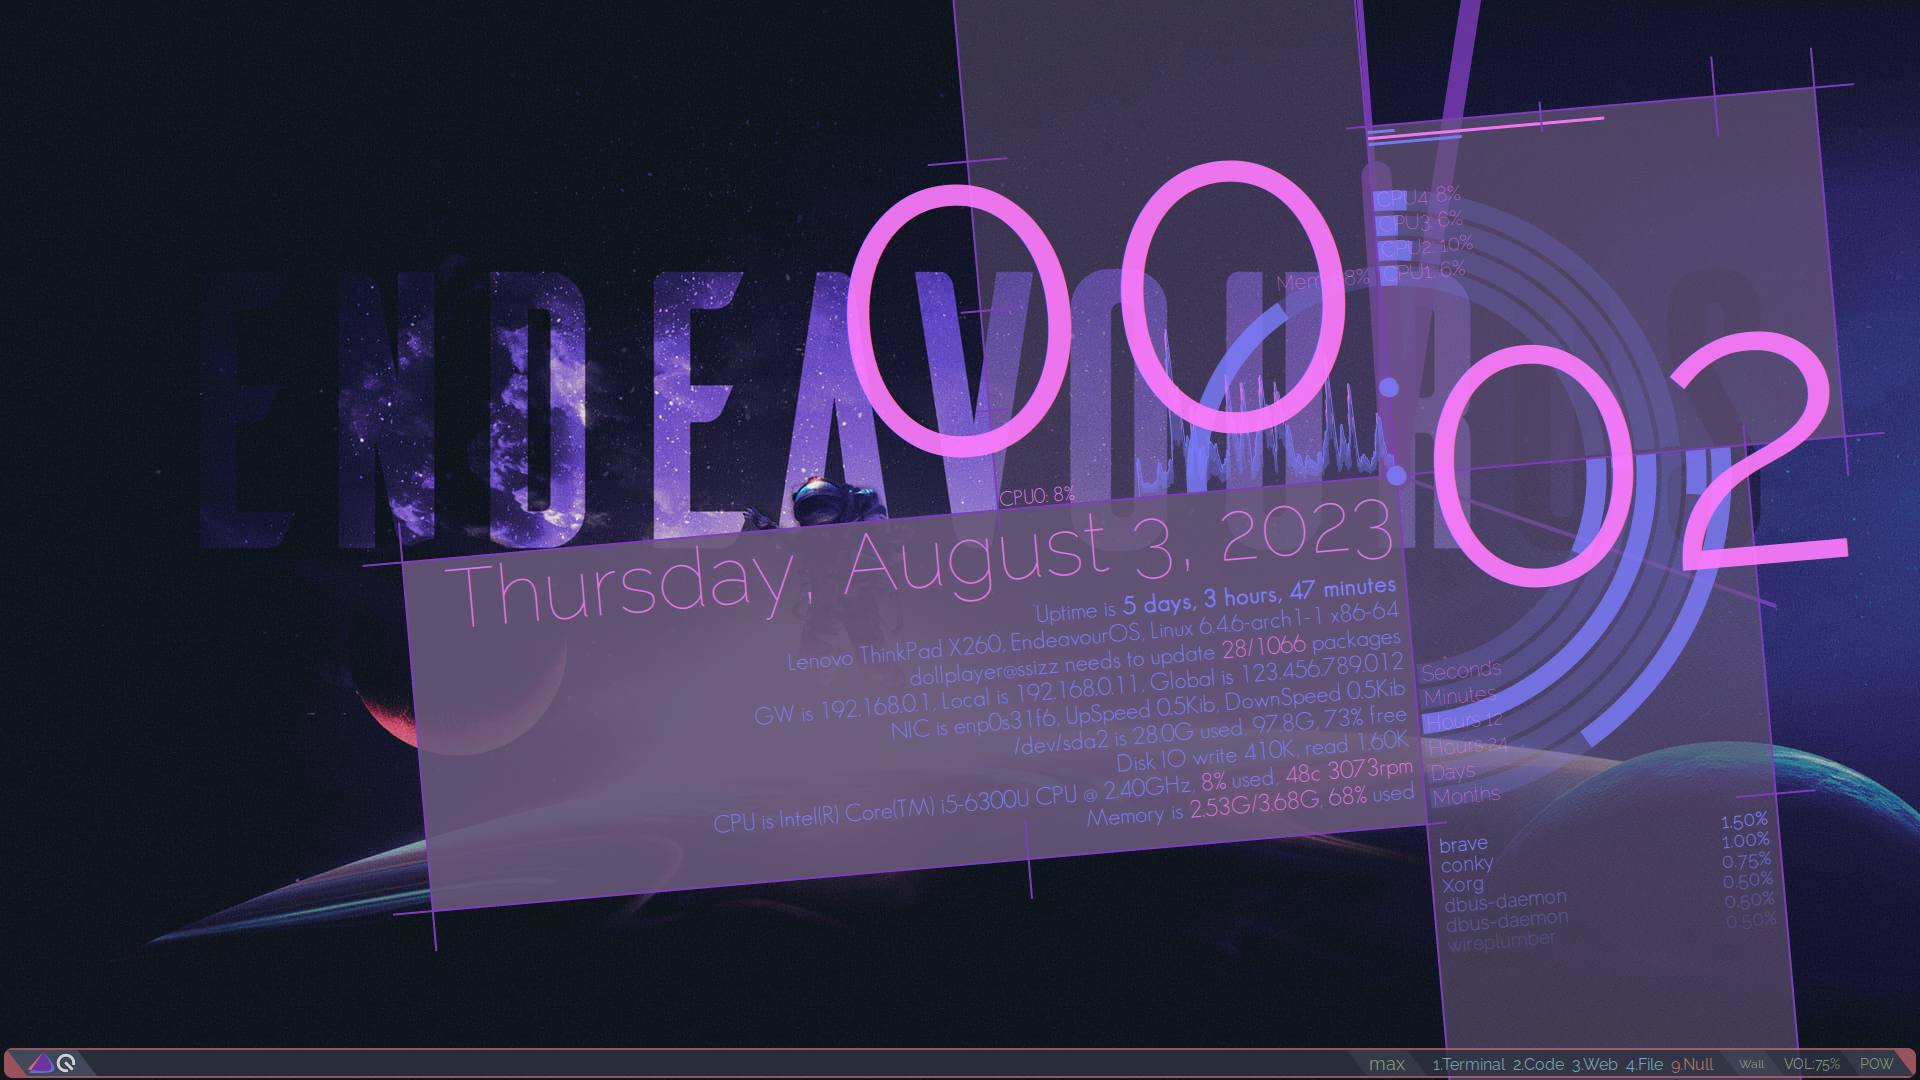
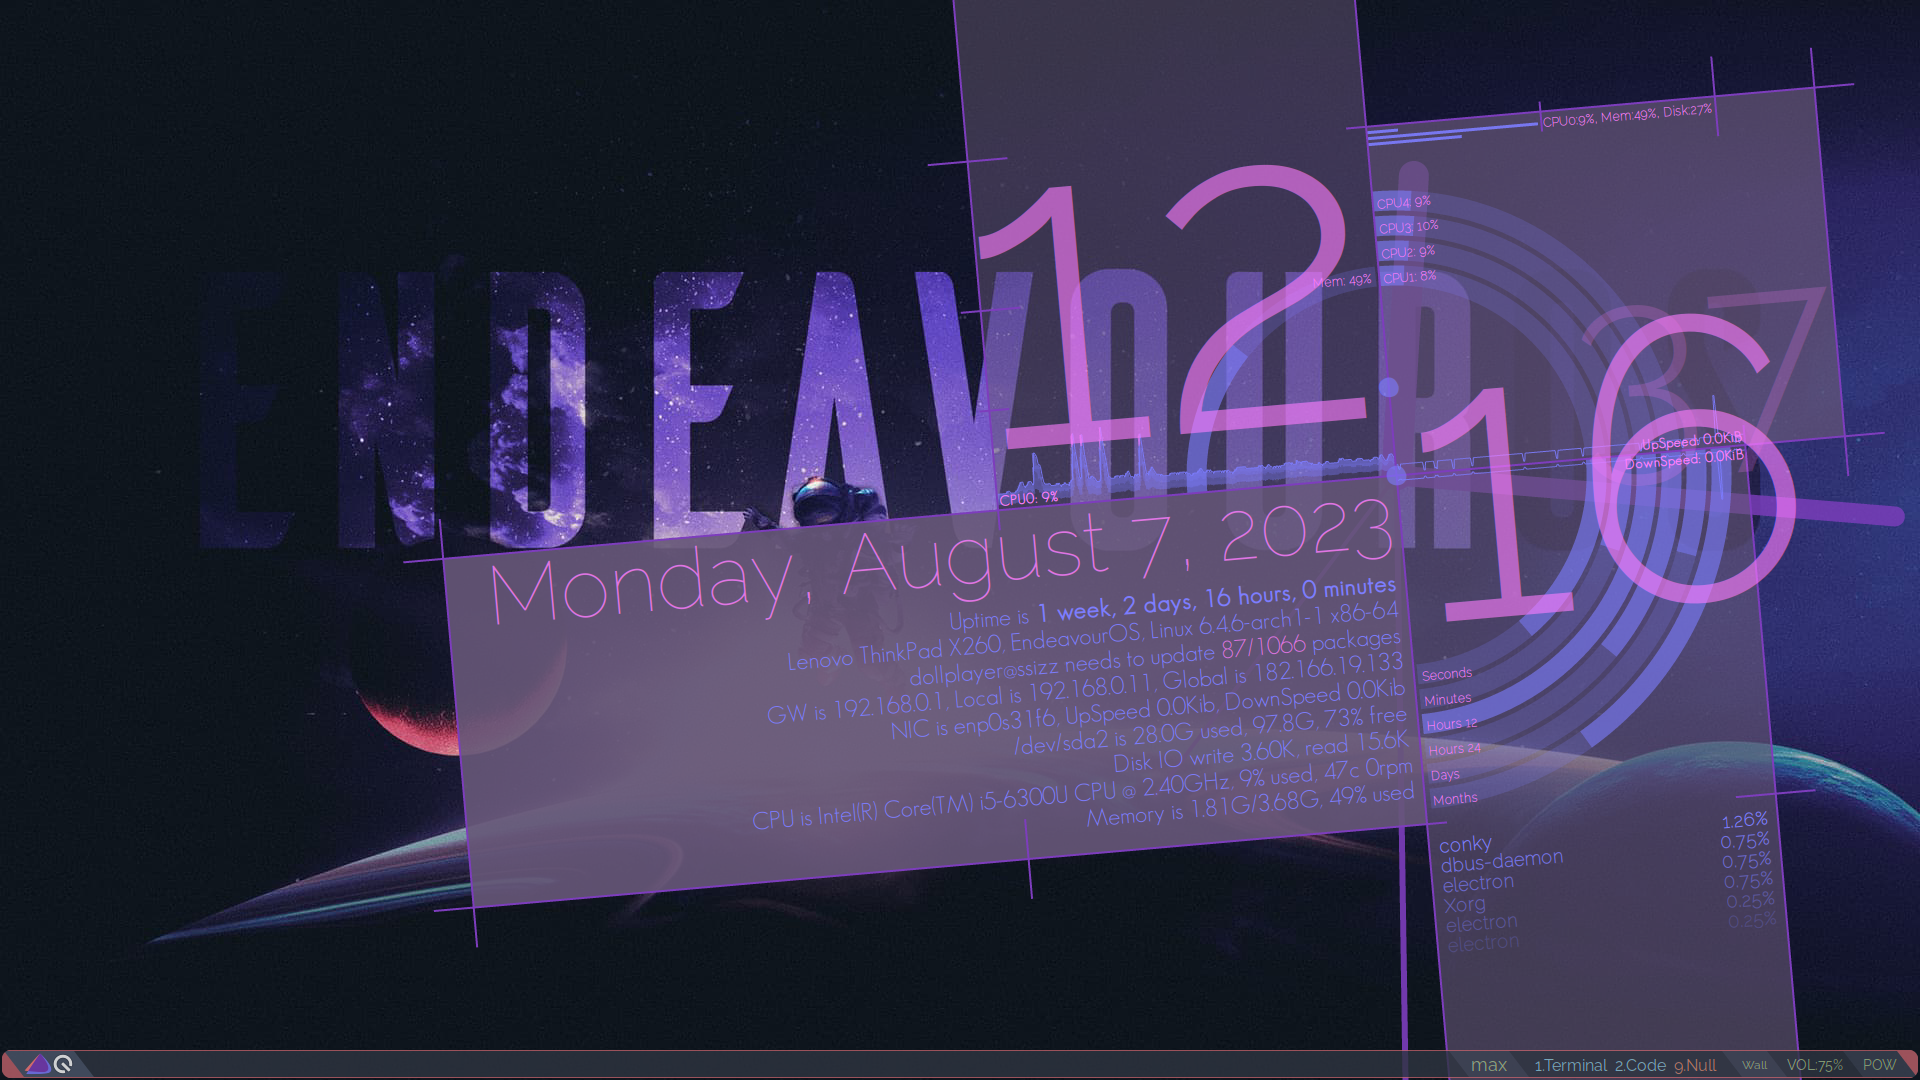
implementing network up/down speed graph, but a buggy code

diff --git a/README.md b/README.md
@@ -60,7 +60,10 @@ Functions that could not be implemented due to my lack of technical skills.
    Done, not implemented as a generalized parser, for this reason, it is a very unrefined implementation.   
    See. `./scripts/text_detail.lua`
 1. Imprementing logarithmic graph, ex. Network Up/Down speed, Disk read/write.  
-   I have no idea and skill...although I have a completely unique imprementation idea...
+   ~~I have no idea and skill...although I have a completely unique imprementation idea...~~  
+   I have implemented it, albeit **a buggy code**, I will check the detailed behavior in the future, 2023-08-07.  
+   I implemented it in a way that I dynamically get the maximum value in the array.  
+   See. `./scripts/graph_network.lua`
 1. Imprementing display of currency rates.  
    Planned, may not be implemented. Use [pandas-datareader](https://pandas-datareader.readthedocs.io/en/latest/#)?
 1. ~~Show [`conky_parse("${top name n}")` and `conky_parse("${top cpu n}%")`](https://conky.cc/variables#top) in bottom right?~~  
@@ -70,7 +73,6 @@ Functions that could not be implemented due to my lack of technical skills.
     - Does not include an implementation of decoration changes in the middle of a string.
     - I want to separate the source code of the main body and the settings of each module from being described in the same file.
 1. Using `vmstat` and|ore `ifstat`?
-
 
 
 ## Other notable matters
